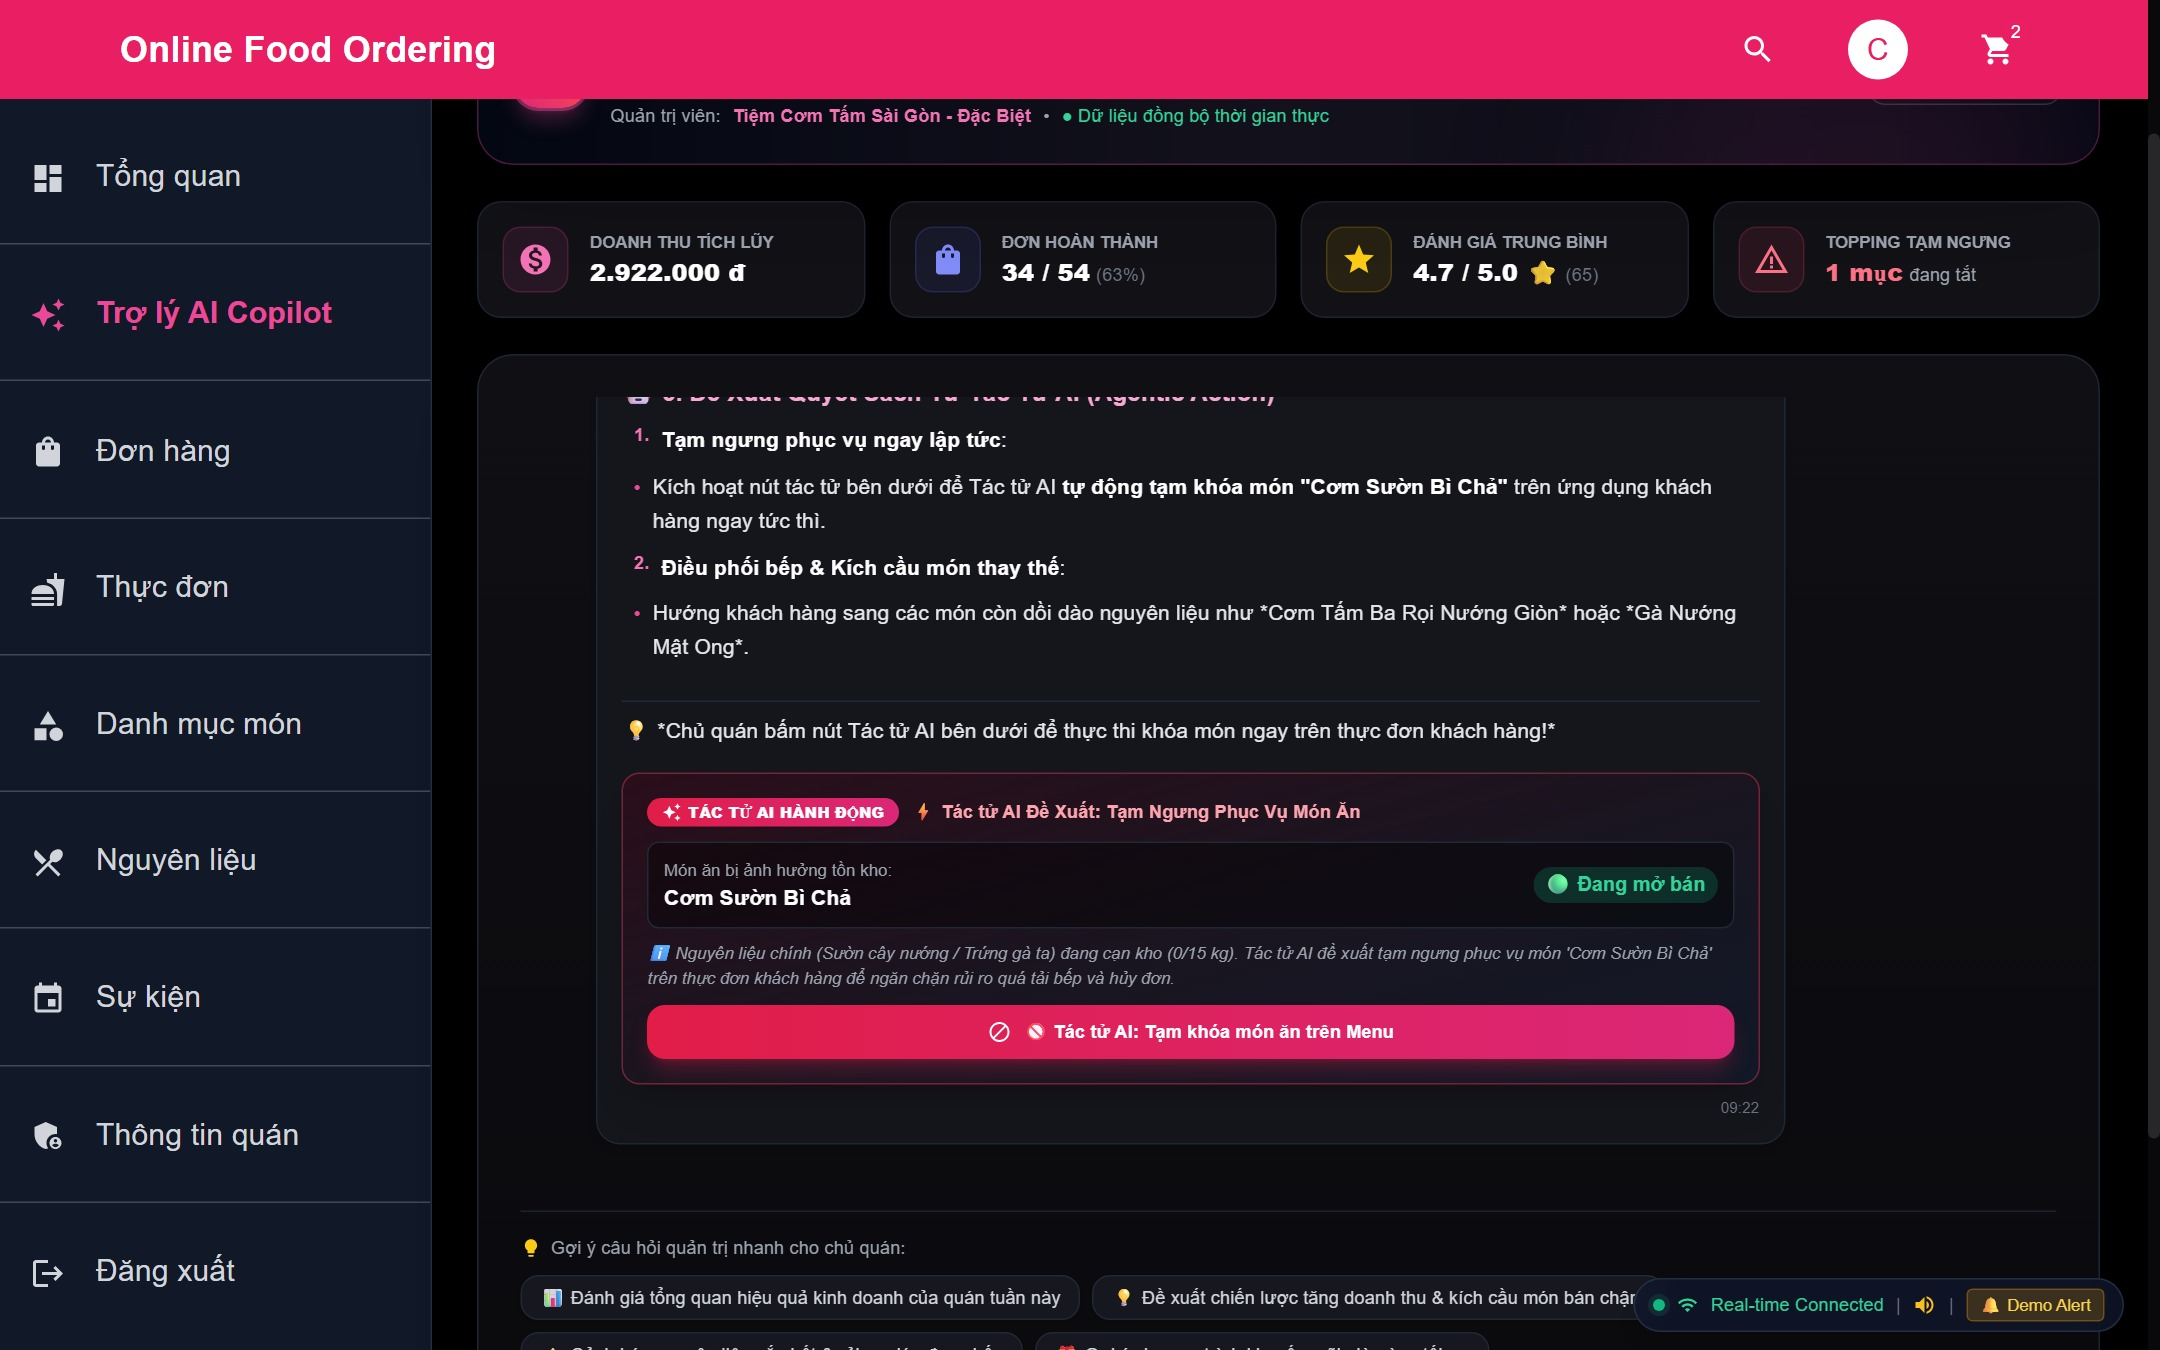
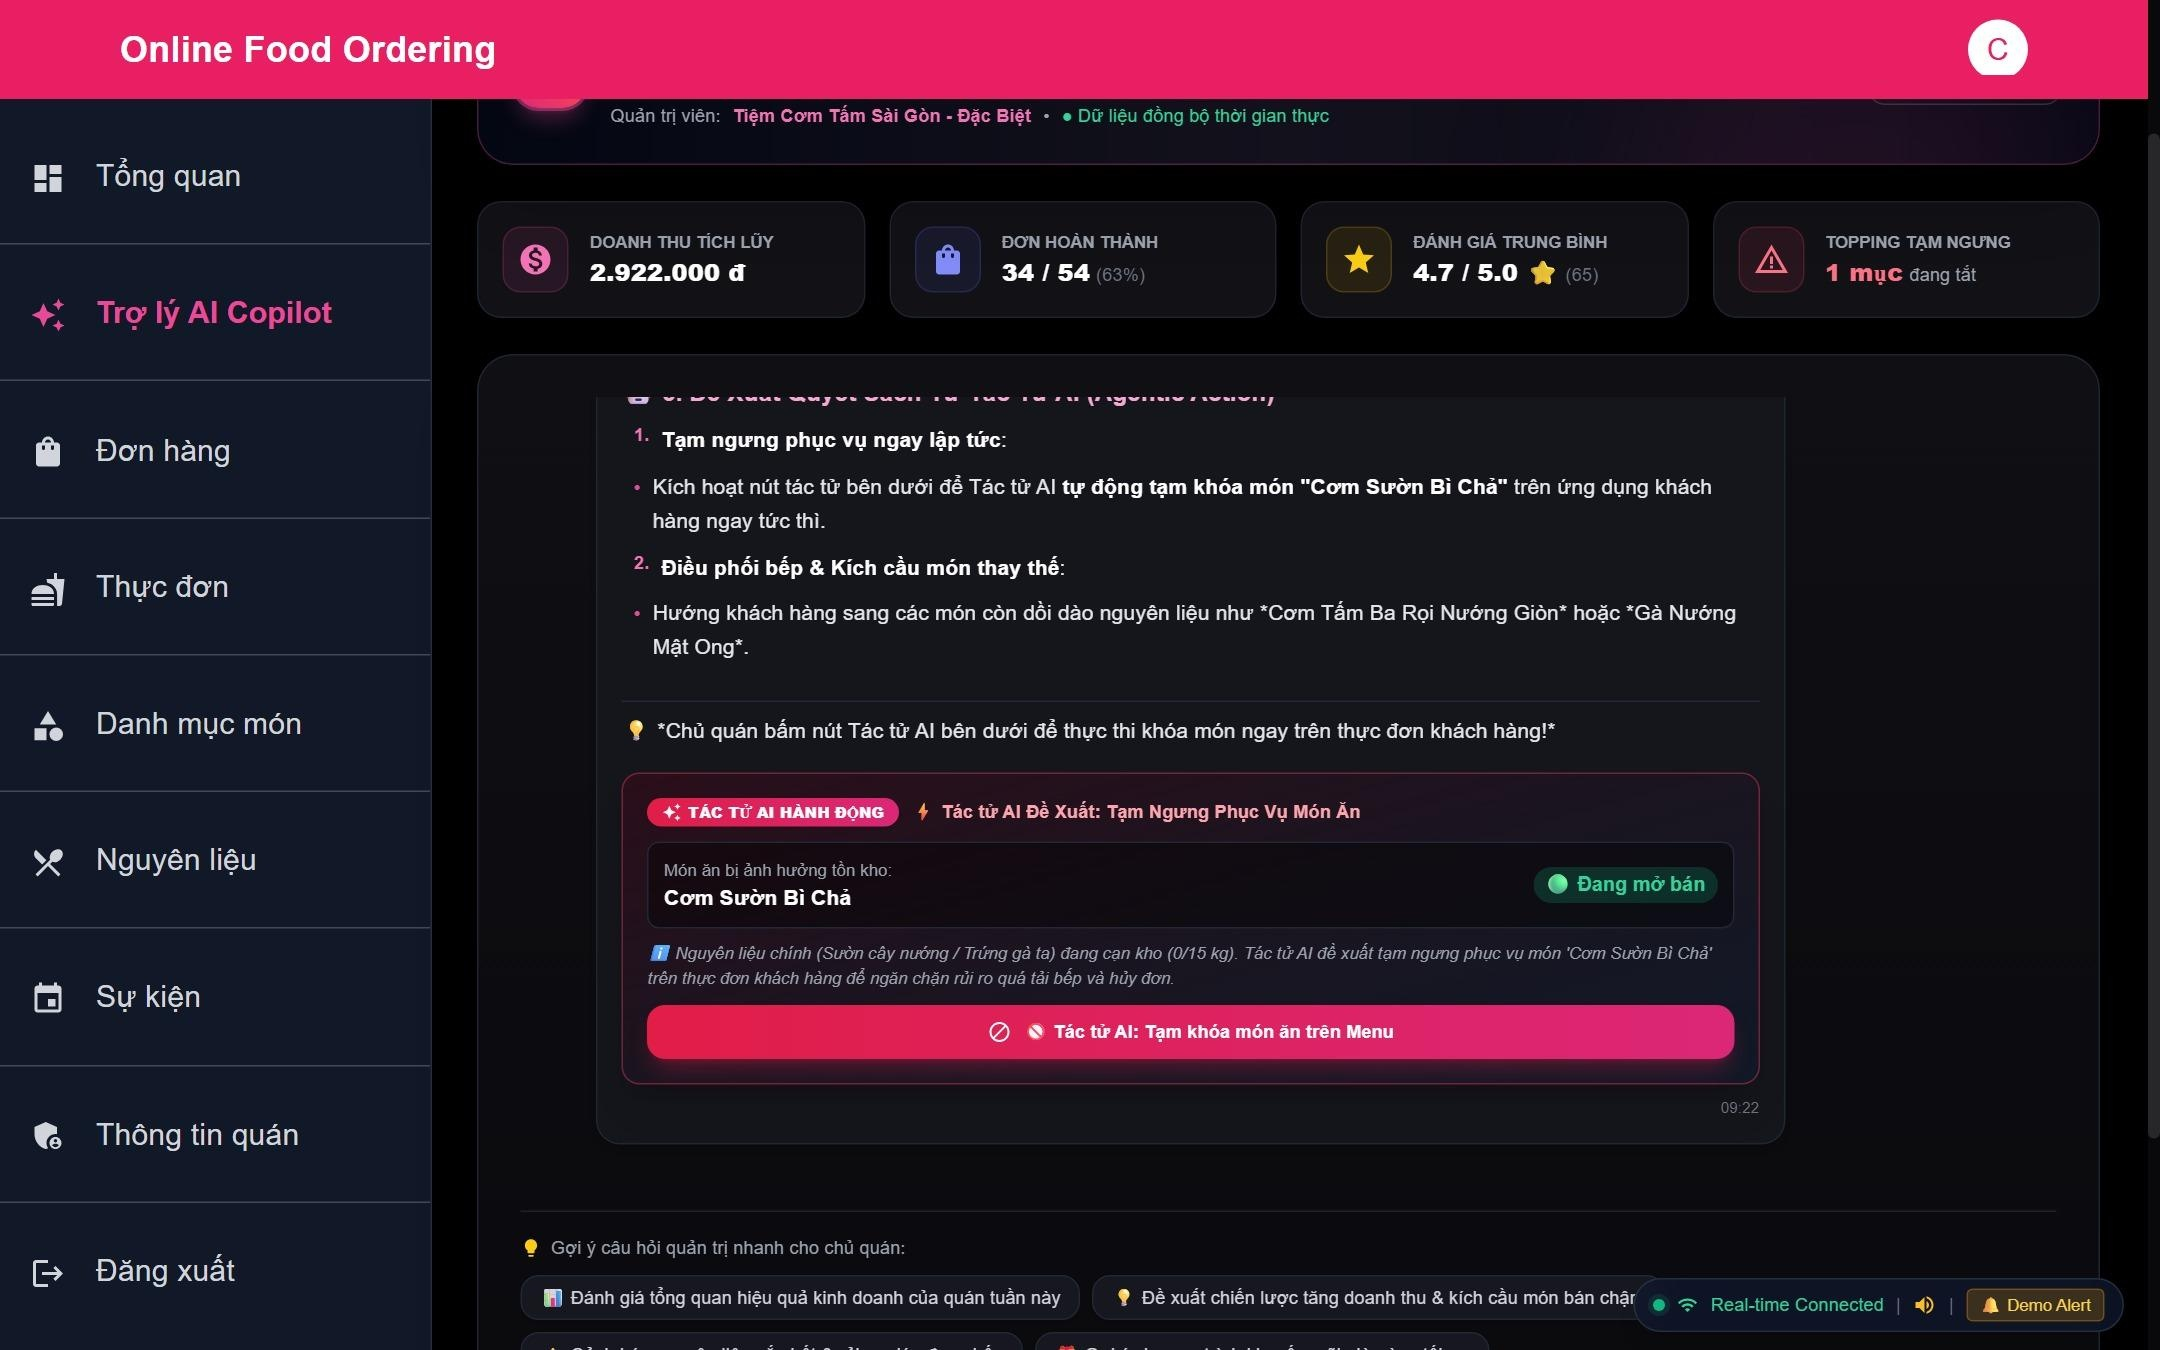
fix(thesis): widen data dictionary columns, update defense date to Dec 2026, and refresh admin/owner UI screenshots

Changed region(s): [[0.8375, 0.0, 0.9616, 0.0622]]

diff --git a/uet-graduation-thesis/BAO_CAO_KHOA_LUAN_TOT_NGHIEP.md b/uet-graduation-thesis/BAO_CAO_KHOA_LUAN_TOT_NGHIEP.md
@@ -38,7 +38,7 @@ Tôi xin chịu hoàn toàn trách nhiệm trước Hội đồng chấm khóa l
 
 <br/>
 
-*Hà Nội, tháng 05 năm 2026*  
+*Hà Nội, tháng 12 năm 2026*  
 **Sinh viên thực hiện**  
 *(Ký và ghi rõ họ tên)*  
 
@@ -62,7 +62,7 @@ Cuối cùng, em xin dành tình cảm biết ơn vô hạn tới gia đình, ch
 
 <br/>
 
-*Hà Nội, tháng 05 năm 2026*  
+*Hà Nội, tháng 12 năm 2026*  
 **Lê Quốc Anh**
 
 ---
